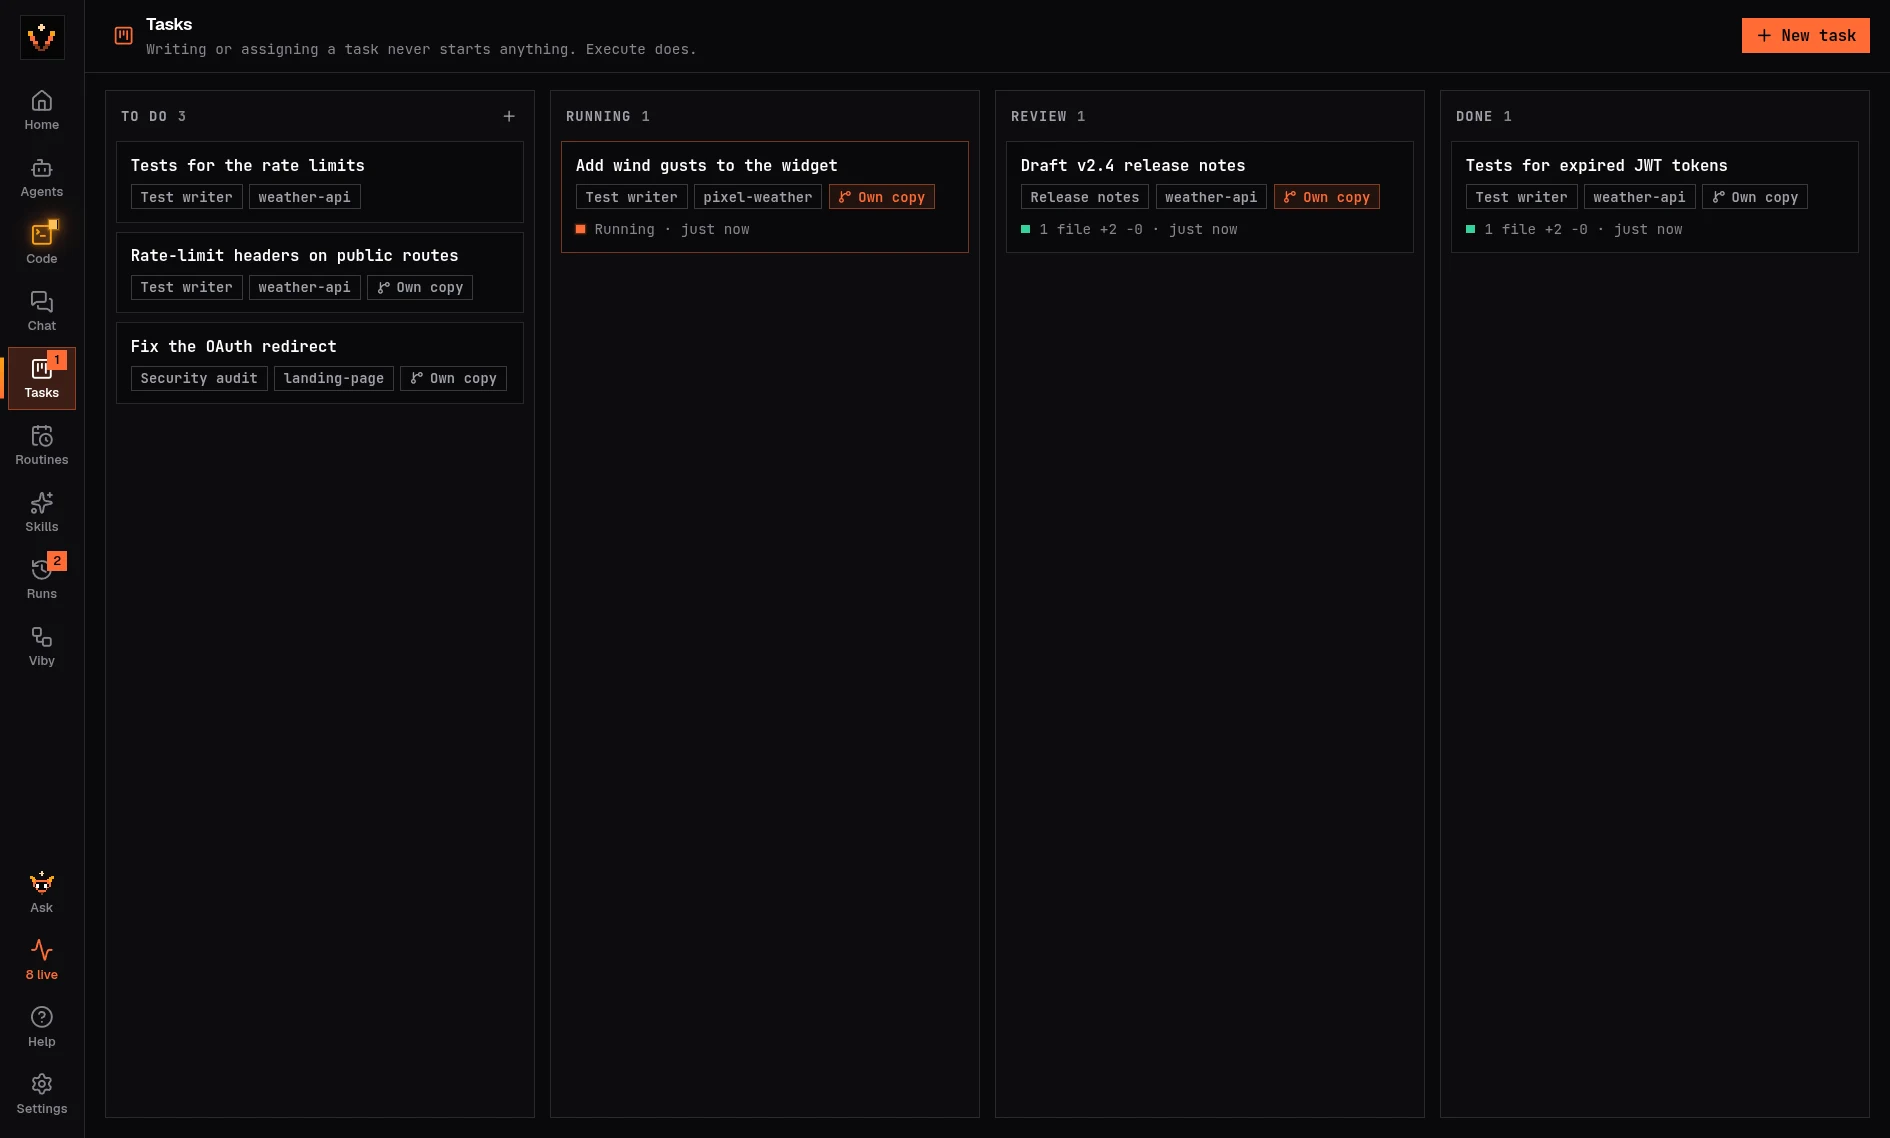
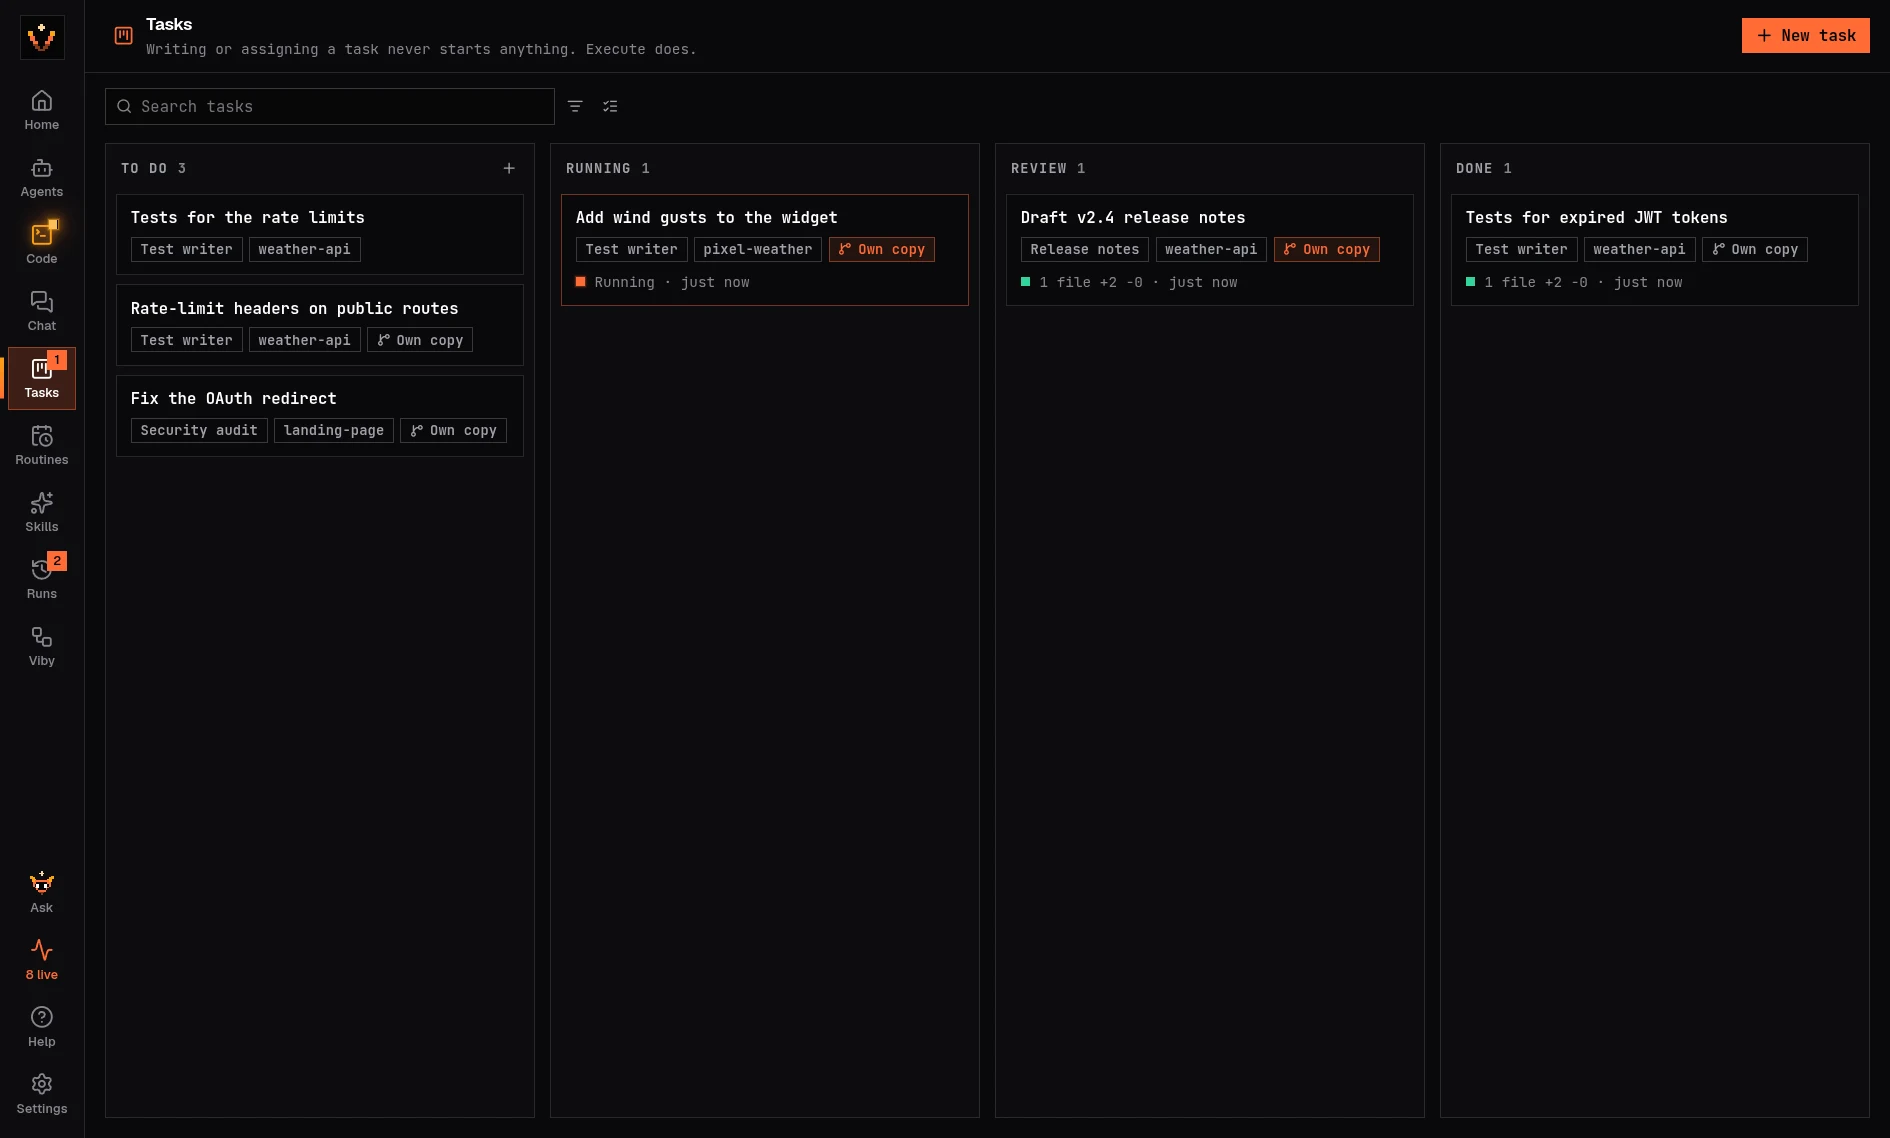
docs(site): the website's screenshots retaken on 3.1.0
Home, Code, Tasks and Viby, retaken on the release build with the stand-in
desk. Code now shows the v3.1.0 tag, a diffstat of the shared list tools
and the workspace list's search, Filter and sort and Select; Tasks shows
the board's new tools. Alt texts say so.

diff --git a/site/index.html b/site/index.html
@@ -687,10 +687,10 @@
               <img src="assets/app-home.webp?v=3.1.0" width="1890" height="1138" alt="VibeForge's Home: the pixel wordmark beside a year of commits, eight terminals running, two runs to review, Claude Code and Codex waiting for you by name, the terminals live now, the six workspaces with three glowing because their CLIs are waiting, and Ask, Viby's button, at the foot of the rail." />
             </figure>
             <figure class="shot">
-              <img src="assets/app-code.webp?v=3.1.0" width="1890" height="1138" alt="Code mode on the VibeForge repository: git log with the 3.0.1 release tag at the top, a diffstat of Viby's orchestrator and voice code from 2.24.1 to 3.0.1 (the old CLI talk-back gone), Claude Code summing up the release in the focused pane, three workspaces glowing in the list, and the file tree on the right." loading="lazy" />
+              <img src="assets/app-code.webp?v=3.1.0" width="1890" height="1138" alt="Code mode on the VibeForge repository: git log with the 3.1.0 release tag at the top, a diffstat of the shared list tools from 3.0.3 to 3.1.0, Claude Code summing up the release in the focused pane, the workspace list with its search, Filter and sort, and Select above three glowing workspaces, and the file tree on the right." loading="lazy" />
             </figure>
             <figure class="shot">
-              <img src="assets/app-tasks.webp?v=3.1.0" width="1890" height="1138" alt="The task board with cards in To do, Running, Review and Done, each assigned to an agent and a workspace and working in its own copy, the finished ones with their diff." loading="lazy" />
+              <img src="assets/app-tasks.webp?v=3.1.0" width="1890" height="1138" alt="The task board with a search, Filter and sort, and Select above it, and cards in To do, Running, Review and Done, each assigned to an agent and a workspace, most working in their own copy, the finished ones with their diff." loading="lazy" />
             </figure>
             <figure class="shot">
               <img src="assets/app-viby.webp?v=3.1.0" width="1890" height="1138" alt="Viby's tab during a call: asked what's running, it answers in a sentence; asked to start Claude Code in landing-page on hero-copy and Codex in weather-api on rate-limit, and to make a task for Test writer, it carries out the plan and leaves chips to open each CLI, review its changes and open the new task. Below, Viby notes that Claude Code finished its turn, with chips to open it in Code, review the changes and read its answer. The call bar along the bottom shows Speaking, with Stop reading, Mute and Hang up, a badge on Tasks counts the new task, and 2 to review waits at the top right. In the rail, Ask has become On call." loading="lazy" />
